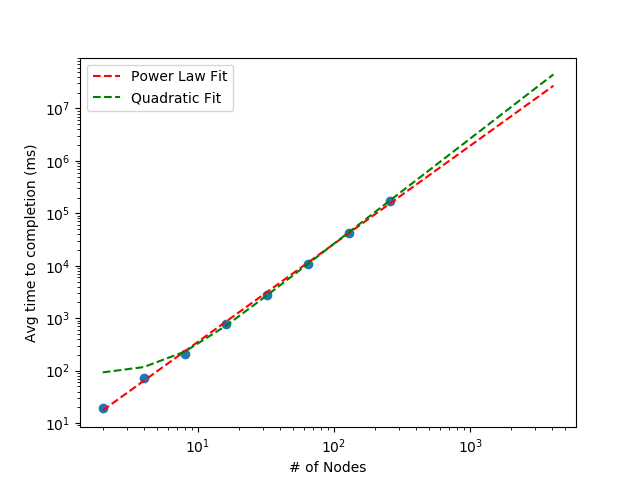
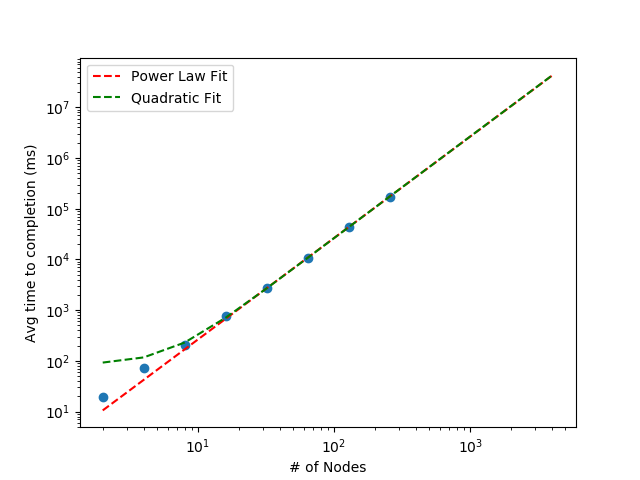
add things

diff --git a/results/analysis.py b/results/analysis.py
@@ -15,6 +15,7 @@ def get_data_from_directory(directory):
 all_node_counts = np.array([2**i for i in range(1, 13)])
 
 
+
 def trendline_plot(directory):
 
     data = get_data_from_directory(directory)
@@ -35,19 +36,21 @@ def trendline_plot(directory):
 
     print("fitting")
 
-    z = np.polyfit(np.log(node_counts), np.log(avg_times), 1)
+    z = np.polyfit(np.log(node_counts[5:]), np.log(avg_times[5:]), 1)
 
     print(z)
 
     p = np.poly1d(z)
 
-    print(node_counts, all_node_counts)
+    print(all_node_counts, np.exp(p(np.log(all_node_counts))))
 
     plt.plot(all_node_counts, np.exp(p(np.log(all_node_counts))), "r--", label="Power Law Fit")
 
     z = np.polyfit(node_counts, avg_times, 2)
 
     print(z)
+
+    # print(all_node_counts, p(all_node_counts))
 
     p = np.poly1d(z)
     plt.plot(all_node_counts, p(all_node_counts), "g--", label="Quadratic Fit")
@@ -66,10 +69,10 @@ def trendline_plot(directory):
 # trendline_plot("benchmarks/svc-link-optimize-comparison/svc-optimized")
 # trendline_plot("benchmarks/svc-link-optimize-comparison/svc-unoptimized")
 # trendline_plot("remote/single-value-consensus")
-trendline_plot("final/single-value-consensus")
+# trendline_plot("final/single-chat-room-trs")
 
 
-quit()
+# quit()
 
 
 def generate_stacked_bar_plot(directory):
@@ -140,8 +143,84 @@ def generate_stacked_bar_plot(directory):
 
 # generate_stacked_bar_plot("final/single-value-consensus")
 
-quit()
+# quit()
 
+def generate_plot_by_subtask(directory):
+
+    data = get_data_from_directory(directory)
+
+    task_names = data[2]["reports"][0]["times"]["events"]
+
+    list_of_values1 = []
+
+    for task in task_names:
+        values = []
+
+        for size in sorted(data):
+
+            times = []
+
+            for report in data[size]["reports"]:
+
+                v = report["times"]["events"]
+
+                times.append(v[task]["end"]-v[task]["start"])
+
+            avg = sum(times)/len(times)
+            values.append(avg)
+        list_of_values1.append(values)
+
+    # Plot
+    print("Generating Plot")
+
+    # labels = [str(d) for d in sorted(data)]
+
+    # print(labels)
+
+    # width = 0.35
+
+    # fig, ax = plt.subplots()
+
+    print(list_of_values1)
+
+    # ax.bar(labels, [1 for l in labels], width, label="foo")
+
+    # ax.bar(labels, [1 for l in labels], width, label="bar")
+
+    # bottom = [0 for l in labels]
+
+    for values1, task in zip(list_of_values1, task_names):
+        print(task, values1, "\n")
+
+        plt.plot(sorted(data), values1, label=task)
+
+        # for l in range(len(labels)):
+        #     bottom[l] += values1[l]
+
+    plt.ylabel('Avg time (ms)')
+    plt.xlabel('Nodes')
+    plt.xscale("log")
+    plt.yscale("log")
+    plt.tick_params(
+        axis='x',          # changes apply to the x-axis
+        which='minor',      # both major and minor ticks are affected
+        bottom=False,      # ticks along the bottom edge are off
+        top=False,         # ticks along the top edge are off
+        labelbottom=False) # labels along the bottom edge are off
+    plt.xticks(ticks=sorted(data), labels=[str(d) for d in sorted(data)])
+
+    plt.title('Times for Different Protocol Phases')
+    plt.legend()
+    # plt.setp(ax.get_xticklabels(), rotation=30, horizontalalignment='right')
+
+    print("saving")
+
+    os.makedirs(f"./img/{directory}", exist_ok=True)
+
+    plt.savefig(f"img/{directory}/plotbysubtask.png")
+
+
+generate_plot_by_subtask("final/single-value-consensus")
 
 def generate_grouped_svc_1_vs_3_plot():
 
